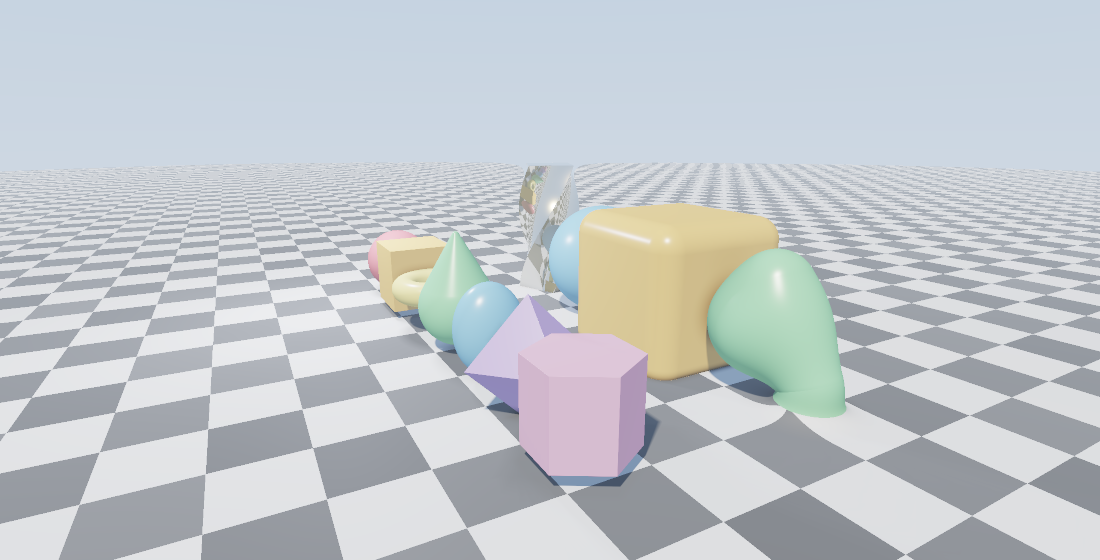
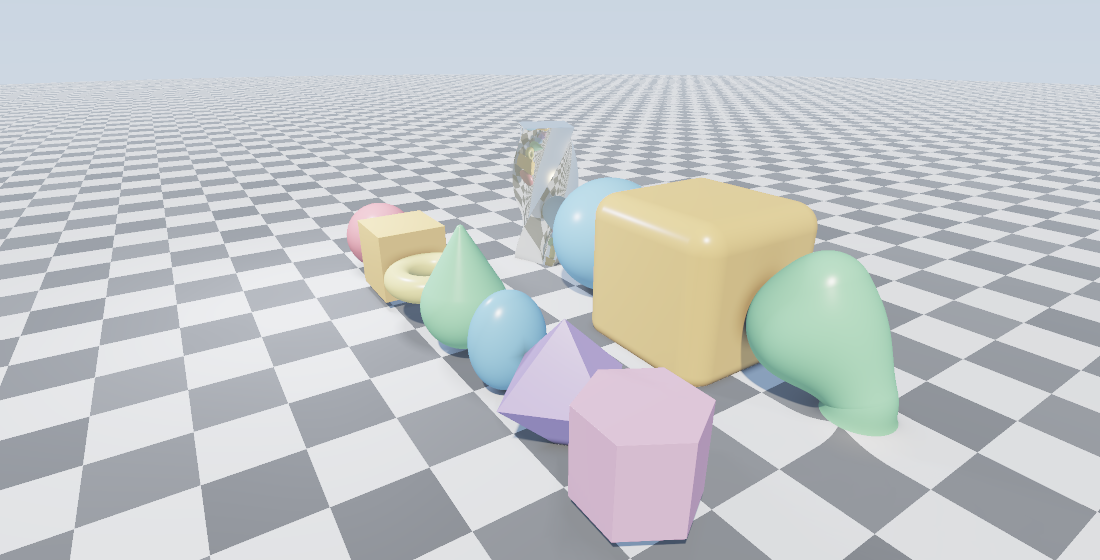
Fix 10 bugs found by adversarial review; add regression tests
A multi-dimension review (8 reviewers + per-finding verifiers) confirmed 10 real
issues; all fixed, each with a regression test where applicable.

- HIGH  scene_io: RenderMode was never (de)serialized -> lost on round-trip. Added
        a `mode` directive to the .mm3e format + round-trip test.
- MED   shade.rs: GGX D-term denominator clamp (1e-7) capped the specular peak of
        low-roughness (chrome/mirror) materials -> 1e-12 (denormal insurance only).
- MED   trace: mirror reflection used mix(), erasing diffuse/emissive at grazing and
        double-counting specular -> energy-conserving (1-fr)*base + fr*refl, emissive
        added after the reflection layer.
- MED   gi.rs sample(): division by a zero-extent volume axis produced NaN -> guarded.
- MED   gi.rs bake(): a 0 probe dimension underflowed / indexed an empty Vec -> dims
        clamped to >=1. Added degenerate-dims + interpolation-correctness tests.
- MED   world_bound: ignored `onion` and `twist`, making the prune lower-bound
        non-conservative (could wrongly cull) -> both accounted for.
- MED   vec.rs to_local: zero scale produced Inf/NaN -> guarded like normalize().
- MED   tests: camera round-trip was not actually exercised, and GI had no output
        test -> added camera_roundtrips + gi_volume_interpolates_a_known_field.
- Tuned the gallery example camera for a cleaner composition.

Verified: cargo clippy --all-targets -- -D warnings (clean), cargo fmt --check (clean),
[…]

diff --git a/mm3e-orchestrator/tests/engine.rs b/mm3e-orchestrator/tests/engine.rs
@@ -32,16 +32,31 @@ fn cam() -> Camera {
 
 #[test]
 fn scene_io_roundtrips_stably() {
-    let scene = demo_scene();
+    let mut scene = demo_scene();
+    scene.mode = RenderMode::Steps; // a non-default mode must survive the round-trip
     let c = cam();
     let text = scene_io::serialize(&scene, &c);
     let (parsed, _) = scene_io::parse(&text).expect("parse");
     assert_eq!(parsed.objects.len(), scene.objects.len());
     assert_eq!(parsed.materials.len(), scene.materials.len());
     assert_eq!(parsed.lights.len(), scene.lights.len());
+    assert_eq!(parsed.mode, RenderMode::Steps, "render mode lost on round-trip");
     // Re-serializing the parsed scene must reproduce the exact same text.
     let again = scene_io::serialize(&parsed, &c);
     assert_eq!(text, again, "serialization is not a stable round-trip");
+}
+
+#[test]
+fn camera_roundtrips() {
+    let scene = demo_scene();
+    let c = cam();
+    let text = scene_io::serialize(&scene, &c);
+    let (_, parsed_cam) = scene_io::parse(&text).expect("parse");
+    // The look-at basis + FOV must reconstruct from the serialized eye/target/up/fov.
+    assert!((parsed_cam.eye - c.eye).length() < 1e-4);
+    assert!((parsed_cam.forward - c.forward).length() < 1e-4);
+    assert!((parsed_cam.up - c.up).length() < 1e-4);
+    assert!((parsed_cam.fov_scale - c.fov_scale).abs() < 1e-4);
 }
 
 #[test]
@@ -99,6 +114,29 @@ fn gi_bake_and_render() {
     let fb = render(&scene, &cam());
     let px = fb.to_u32(mm3e_kit::color::Rgba::rgb8(0, 0, 0));
     assert!(px.iter().any(|&p| p != px[0]));
+}
+
+#[test]
+fn gi_volume_interpolates_a_known_field() {
+    use mm3e_orchestrator::gi::GiVolume;
+    // A radiance field that is exactly linear in x, independent of direction. Every cube face of
+    // a probe then equals splat(probe.x), and trilinear interpolation should reproduce it exactly.
+    let radiance = |o: Vec3, _d: Vec3| Vec3::splat(o.x);
+    let vol = GiVolume::bake(Vec3::new(0.0, 0.0, 0.0), Vec3::new(4.0, 2.0, 4.0), (5, 3, 5), 1, &radiance);
+    let n = Vec3::new(1.0, 0.0, 0.0);
+    // At a probe center (x=2) and a cell midpoint (x=2.5), the ambient cube returns ~x.
+    assert!((vol.sample(Vec3::new(2.0, 1.0, 2.0), n).x - 2.0).abs() < 1e-3);
+    assert!((vol.sample(Vec3::new(2.5, 1.0, 2.0), n).x - 2.5).abs() < 1e-3);
+}
+
+#[test]
+fn gi_degenerate_dims_dont_panic() {
+    // A zero / one probe dimension must be clamped, not panic on an empty buffer or underflow.
+    let radiance = |_o: Vec3, _d: Vec3| Vec3::splat(0.5);
+    for dims in [(0, 5, 6), (1, 1, 1), (3, 0, 3)] {
+        let vol = mm3e_orchestrator::gi::GiVolume::bake(Vec3::ZERO, Vec3::splat(4.0), dims, 1, &radiance);
+        let _ = vol.sample(Vec3::splat(2.0), Vec3::new(0.0, 1.0, 0.0)); // must not panic
+    }
 }
 
 #[test]

diff --git a/mm3e-orchestrator/src/lib.rs b/mm3e-orchestrator/src/lib.rs
@@ -229,9 +229,17 @@ impl Object {
             radius += center.length(); // reflected copies straddle the origin
             center = Vec3::ZERO;
         }
+        if m.twist != 0.0 {
+            // Twist preserves cylindrical radius and y, so recenter the bound onto the Y axis to
+            // cover every twisted image of an off-axis shape (else it could be wrongly pruned).
+            radius += (center.x * center.x + center.z * center.z).sqrt();
+            center.x = 0.0;
+            center.z = 0.0;
+        }
         radius += m.elongate.length();
         let world_center = self.xform.pos + self.xform.rot.mul_vec(center.scale(self.xform.scale));
-        Some((world_center, radius * self.xform.scale + m.round.max(0.0)))
+        // `round` and `onion` grow the outer surface in world units (applied after the scale).
+        Some((world_center, radius * self.xform.scale + m.round.max(0.0) + m.onion.abs()))
     }
 }
 
@@ -618,17 +626,19 @@ fn trace(scene: &Scene, field: &dyn Fn(Vec3) -> Field, ray: &Ray, depth: u32) ->
         radiance = radiance + surface.cmul(light.color).scale(shadow * light.attenuation(l_dist));
     }
 
-    radiance = radiance + m.emissive;
-
-    // One-bounce mirror reflection, weighted by a Fresnel-modulated reflectivity.
+    // One-bounce environment reflection, layered by a Fresnel-modulated reflectivity. Energy is
+    // conserved (the diffuse/direct base is attenuated by `1 − fr` and the reflection adds `fr`),
+    // and emissive is added *after* so a reflective light source is never erased at grazing angles.
     if depth < scene.bounces && m.reflectivity > 0.0 {
         let cos = normal.dot(view).max(0.0);
         let fr = shade::fresnel_schlick(cos, m.reflectivity);
         let rdir = ray.dir.reflect(normal).normalize();
         let rorigin = hit.pos + normal.scale(0.02);
         let refl = trace(scene, field, &Ray { origin: rorigin, dir: rdir }, depth + 1);
-        radiance = radiance.mix(refl, fr);
+        radiance = radiance.scale(1.0 - fr) + refl.scale(fr);
     }
+
+    radiance = radiance + m.emissive;
 
     // Distance fog blends far geometry into the atmosphere.
     shade::apply_fog(radiance, scene.fog, hit.t, scene.fog_density)

diff --git a/mm3e-orchestrator/src/scene_io.rs b/mm3e-orchestrator/src/scene_io.rs
@@ -7,7 +7,18 @@
 use mm3e_kit::camera::Camera;
 use mm3e_kit::vec::{Mat3, Transform, Vec3};
 
-use crate::{Combine, Light, Material, Object, Prim, Scene};
+use crate::{Combine, Light, Material, Object, Prim, RenderMode, Scene};
+
+fn mode_name(m: RenderMode) -> &'static str {
+    match m {
+        RenderMode::Beauty => "beauty",
+        RenderMode::Normal => "normal",
+        RenderMode::Depth => "depth",
+        RenderMode::Ao => "ao",
+        RenderMode::Steps => "steps",
+        RenderMode::Albedo => "albedo",
+    }
+}
 
 // ----------------------------------------------------------------------------
 // Writer
@@ -33,6 +44,7 @@ pub fn serialize(scene: &Scene, camera: &Camera) -> String {
         "post {} {} {} {} {}\n",
         p.exposure, p.bloom as u32, p.bloom_threshold, p.bloom_intensity, p.bloom_radius
     ));
+    s.push_str(&format!("mode {}\n", mode_name(scene.mode)));
 
     // Camera: eye, target (= eye + forward), up, vertical FOV in degrees.
     let target = camera.eye + camera.forward;
@@ -193,6 +205,17 @@ pub fn parse(src: &str) -> Result<(Scene, Camera), String> {
                 scene.post.bloom_threshold = c.f("bloom_threshold")?;
                 scene.post.bloom_intensity = c.f("bloom_intensity")?;
                 scene.post.bloom_radius = c.u("bloom_radius")?;
+            }
+            "mode" => {
+                scene.mode = match c.next("mode")? {
+                    "beauty" => RenderMode::Beauty,
+                    "normal" => RenderMode::Normal,
+                    "depth" => RenderMode::Depth,
+                    "ao" => RenderMode::Ao,
+                    "steps" => RenderMode::Steps,
+                    "albedo" => RenderMode::Albedo,
+                    other => return Err(format!("line {}: unknown render mode '{other}'", i + 1)),
+                }
             }
             "cam" => {
                 let eye = c.v3("eye")?;

diff --git a/mm3e-orchestrator/src/gi.rs b/mm3e-orchestrator/src/gi.rs
@@ -56,7 +56,10 @@ impl GiVolume {
         samples: u32,
         radiance: &(dyn Fn(Vec3, Vec3) -> Vec3 + Sync),
     ) -> GiVolume {
-        let (nx, ny, nz) = dims;
+        // Clamp every axis to at least one probe so allocation and the `nx-1` index math below
+        // can never underflow or touch an empty buffer.
+        let (nx, ny, nz) = (dims.0.max(1), dims.1.max(1), dims.2.max(1));
+        let dims = (nx, ny, nz);
         let size = max - min;
         let cell = Vec3::new(
             size.x / (nx.max(2) - 1) as f32,
@@ -126,11 +129,19 @@ impl GiVolume {
     /// Sample the interpolated irradiance arriving at `pos` on a surface with normal `n`.
     pub fn sample(&self, pos: Vec3, n: Vec3) -> Vec3 {
         let (nx, ny, nz) = self.dims;
-        // Fractional grid coordinate, clamped into the volume.
+        // Fractional grid coordinate, clamped into the volume. A degenerate (zero-extent) axis
+        // collapses to probe 0 instead of dividing by zero (which would poison shading with NaN).
+        let axis = |p: f32, lo: f32, ext: f32, n: usize| {
+            if ext.abs() > 1e-6 {
+                (p - lo) / ext * (n.max(2) - 1) as f32
+            } else {
+                0.0
+            }
+        };
         let g = Vec3::new(
-            (pos.x - self.min.x) / self.size.x * (nx.max(2) - 1) as f32,
-            (pos.y - self.min.y) / self.size.y * (ny.max(2) - 1) as f32,
-            (pos.z - self.min.z) / self.size.z * (nz.max(2) - 1) as f32,
+            axis(pos.x, self.min.x, self.size.x, nx),
+            axis(pos.y, self.min.y, self.size.y, ny),
+            axis(pos.z, self.min.z, self.size.z, nz),
         );
         let clampi = |v: f32, hi: usize| (v.floor().max(0.0) as usize).min(hi.saturating_sub(1));
         let (i0, j0, k0) = (clampi(g.x, nx), clampi(g.y, ny), clampi(g.z, nz));

diff --git a/mm3e-orchestrator/examples/gallery.rs b/mm3e-orchestrator/examples/gallery.rs
@@ -77,7 +77,7 @@ fn main() {
     scene.light(Light::directional(scene.sun_dir, Vec3::new(1.2, 1.12, 0.98).scale(2.2)).soft(0.04));
     scene.light(Light::sphere(Vec3::new(-3.0, 4.0, 3.0), Vec3::new(0.8, 0.85, 1.0).scale(40.0), 1.0));
 
-    let cam = orbit_camera(Vec3::new(0.0, 0.9, 0.0), 9.5, 0.5, 0.26, 52f32.to_radians());
+    let cam = orbit_camera(Vec3::new(0.0, 0.75, 0.2), 8.6, 0.58, 0.40, 52f32.to_radians());
     let fb = render(&scene, &cam);
     std::fs::write("gallery.bmp", fb.to_bmp(Rgba::rgb8(0, 0, 0))).expect("write");
     println!("wrote {} ({}x{})", std::fs::canonicalize("gallery.bmp").unwrap().display(), scene.width, scene.height);

diff --git a/mm3e-kit/src/shade.rs b/mm3e-kit/src/shade.rs
@@ -30,7 +30,9 @@ pub fn luminance(c: Vec3) -> f32 {
 /// GGX / Trowbridge-Reitz normal-distribution term `D`.
 fn d_ggx(noh: f32, a2: f32) -> f32 {
     let d = noh * noh * (a2 - 1.0) + 1.0;
-    a2 / (std::f32::consts::PI * d * d).max(1e-7)
+    // `d` is strictly positive (d ≥ a2 > 0), so this guard is pure denormal insurance — it must
+    // stay tiny, or it would cap the sharp specular peak of low-roughness (chrome/mirror) materials.
+    a2 / (std::f32::consts::PI * d * d).max(1e-12)
 }
 
 /// Height-correlated Smith visibility term `V` (already folds in the `1/(4·NoL·NoV)` denominator).

diff --git a/mm3e-kit/tests/kit.rs b/mm3e-kit/tests/kit.rs
@@ -34,6 +34,14 @@ fn mat3_rotation_is_orthonormal_and_correct() {
 }
 
 #[test]
+fn transform_zero_scale_is_finite() {
+    // A degenerate (zero-scale) transform must not poison the field with Inf/NaN.
+    let t = Transform::new(Vec3::new(1.0, 2.0, 3.0), Mat3::IDENTITY, 0.0);
+    let p = t.to_local(Vec3::new(4.0, 5.0, 6.0));
+    assert!(p.x.is_finite() && p.y.is_finite() && p.z.is_finite());
+}
+
+#[test]
 fn transform_to_local_roundtrip() {
     let t = Transform::new(Vec3::new(2.0, -1.0, 3.0), Mat3::from_euler(0.3, 0.5, -0.2), 2.0);
     let world = Vec3::new(1.0, 4.0, -2.0);

diff --git a/mm3e-kit/src/vec.rs b/mm3e-kit/src/vec.rs
@@ -188,7 +188,10 @@ impl Transform {
 
     /// Map a world-space point into this object's local space.
     pub fn to_local(&self, p: Vec3) -> Vec3 {
-        self.rot.transpose().mul_vec(p - self.pos).scale(1.0 / self.scale)
+        // Guard a zero scale (matches the zero-length guards in `normalize`) so a degenerate
+        // transform yields a finite point rather than Inf/NaN poisoning the whole field.
+        let inv = if self.scale.abs() > 1e-12 { 1.0 / self.scale } else { 0.0 };
+        self.rot.transpose().mul_vec(p - self.pos).scale(inv)
     }
 }
 
